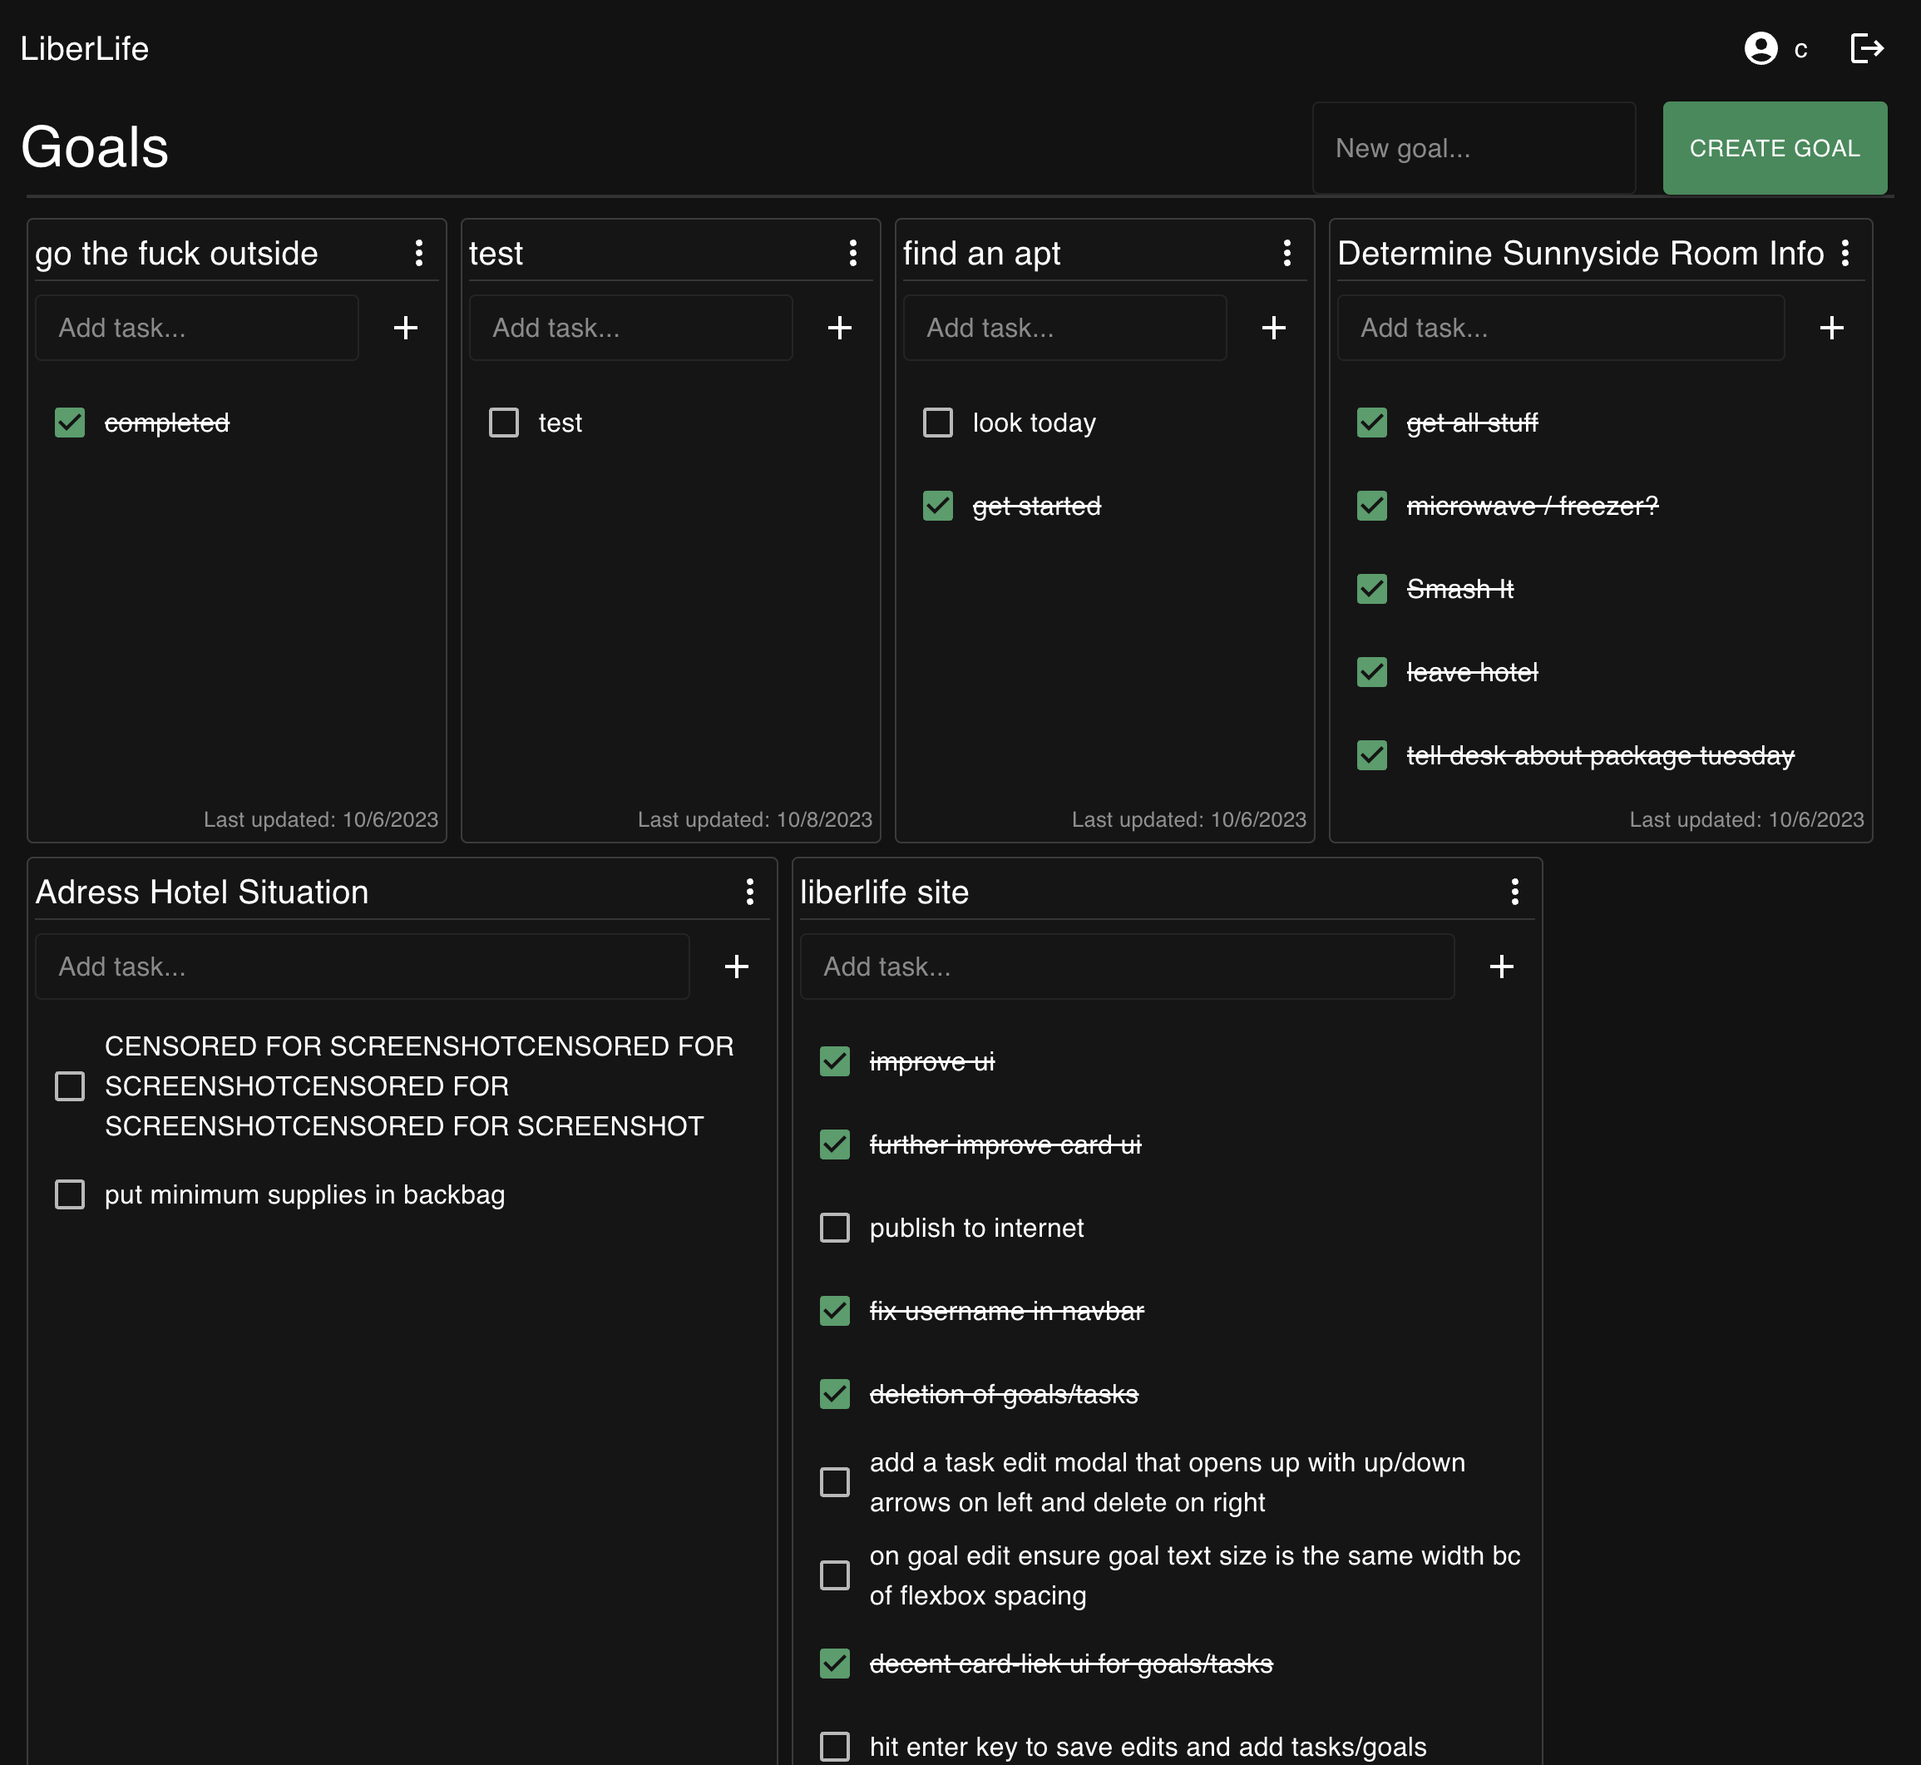
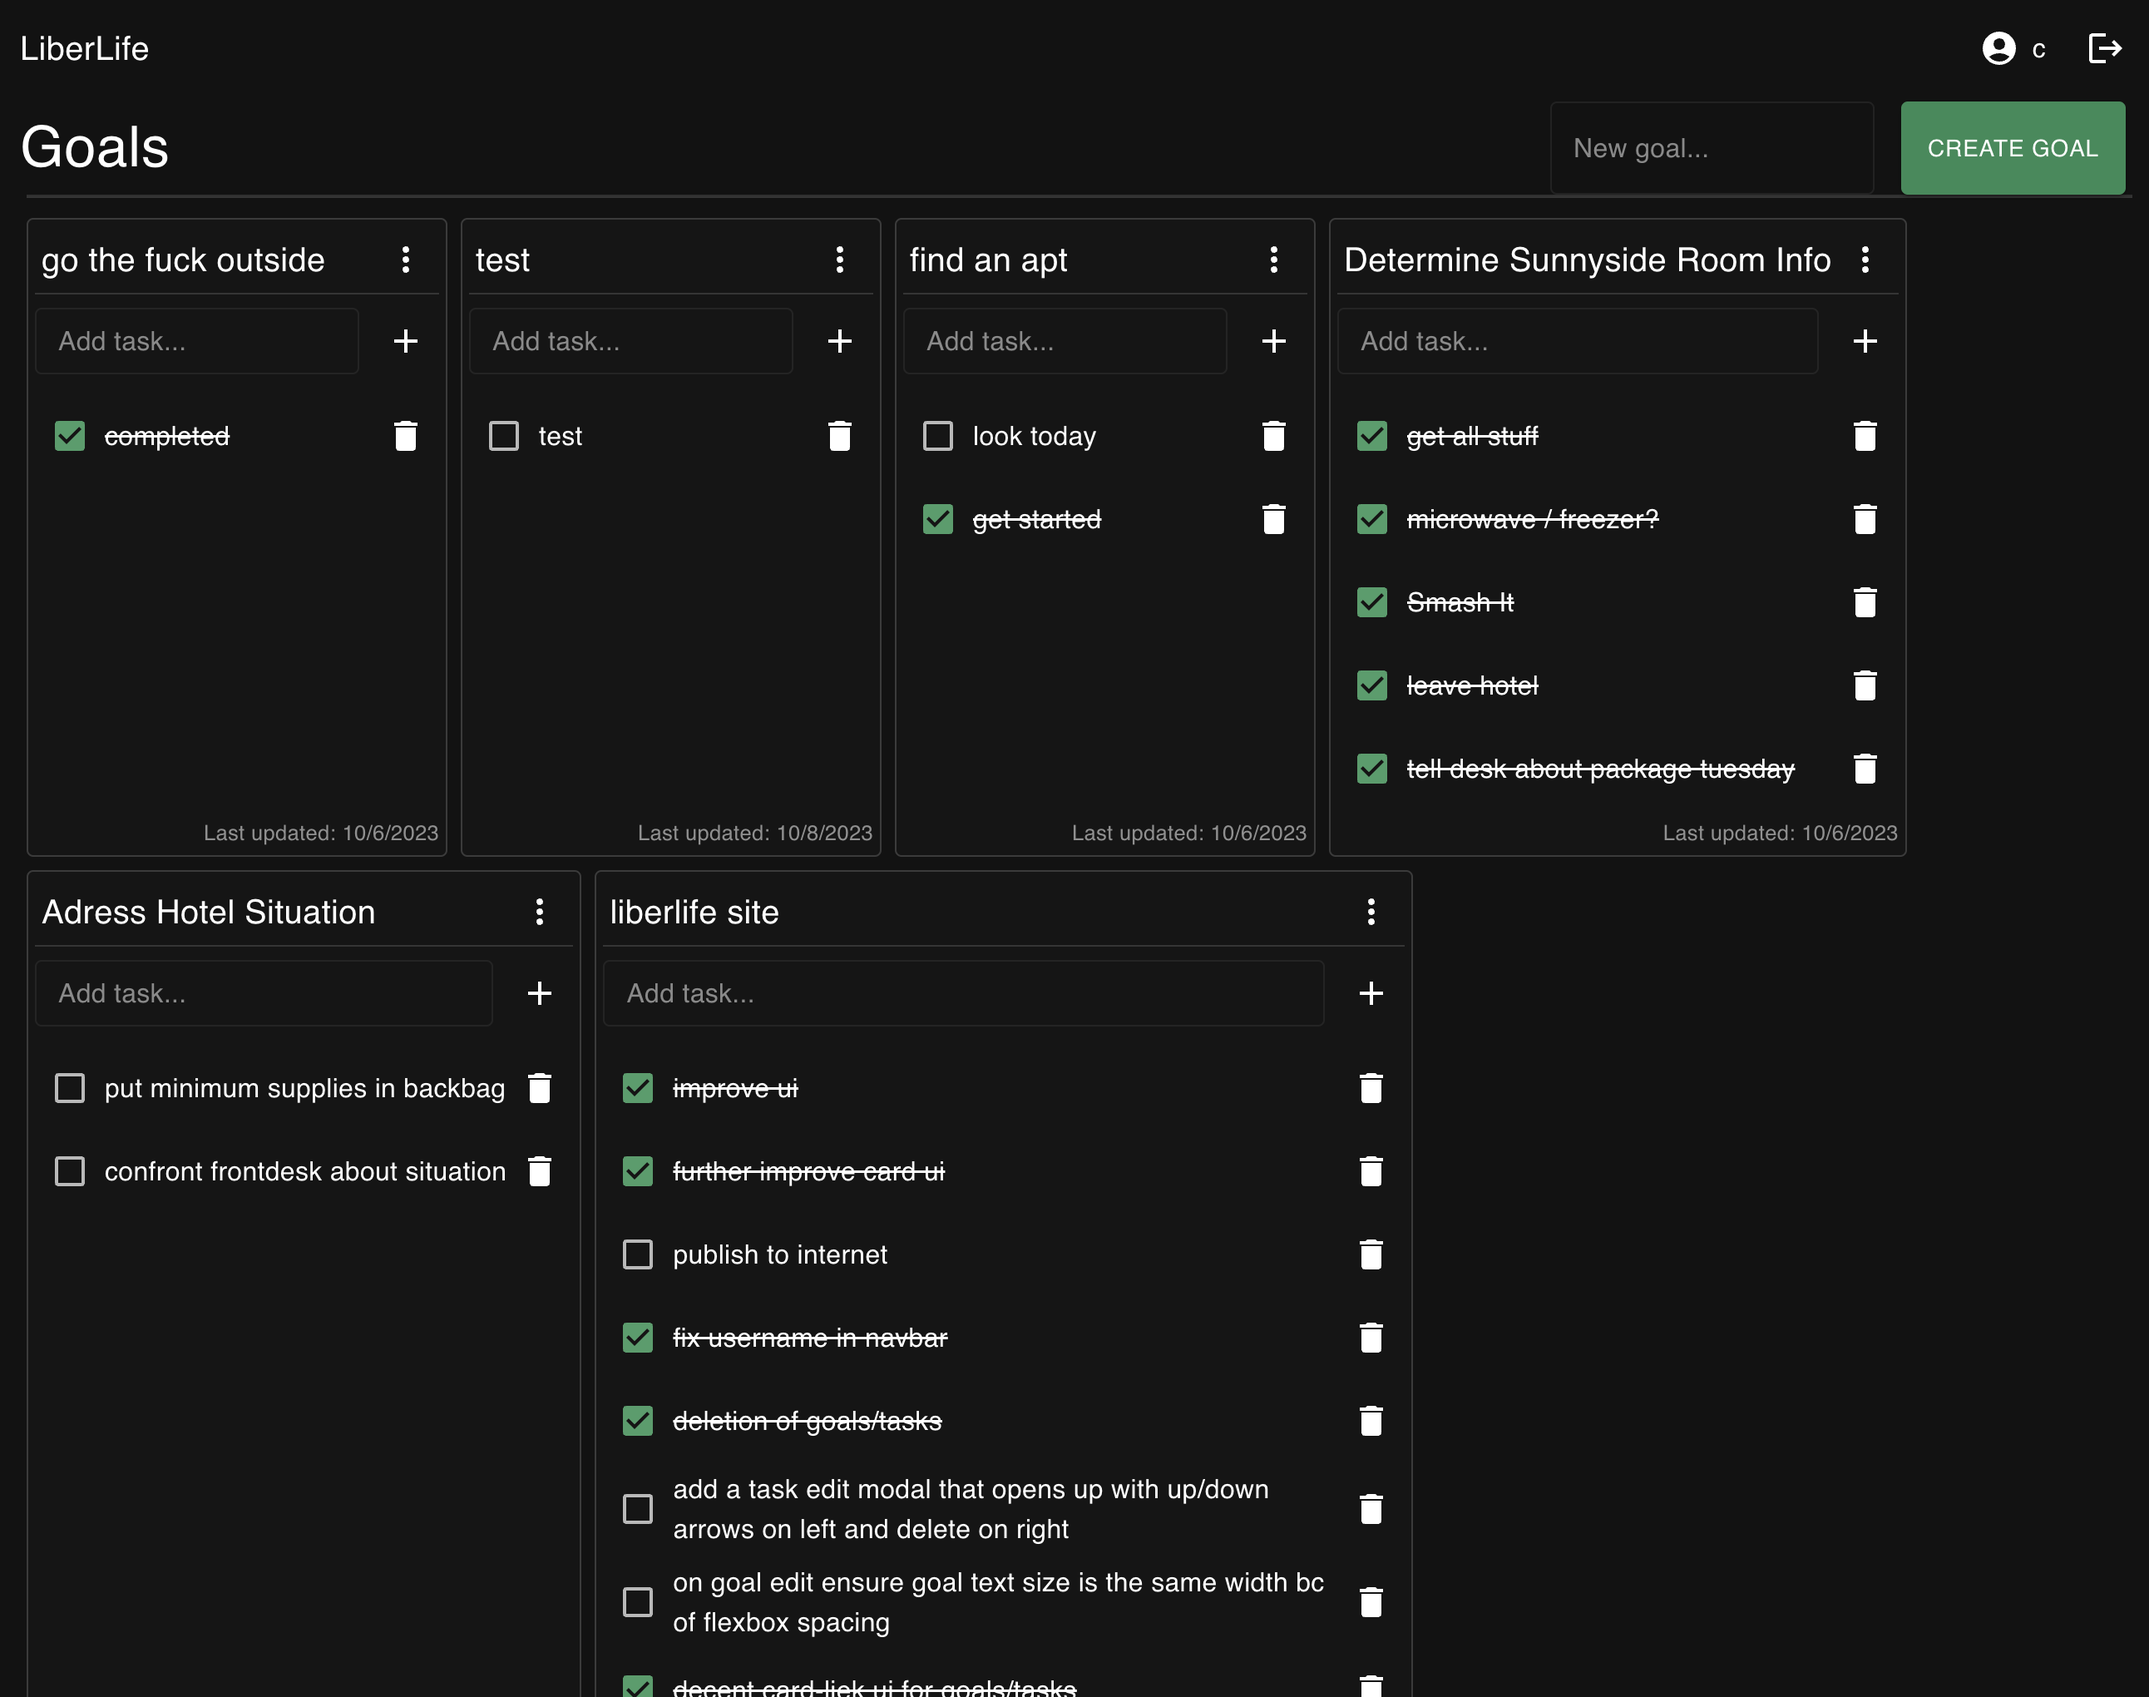
delete functionality for tasks and last updated and preview

diff --git a/frontend/src/pages/GoalsPage/GoalTasks.tsx b/frontend/src/pages/GoalsPage/GoalTasks.tsx
@@ -1,4 +1,4 @@
-import React from "react";
+import React, { useState } from "react";
 import {
   Box,
   TextField,
@@ -7,12 +7,14 @@ import {
   Typography,
 } from "@mui/material";
 import AddIcon from "@mui/icons-material/Add";
+import DeleteIcon from "@mui/icons-material/Delete"; // <-- Import the DeleteIcon
 import { GoalTaskOut } from "../../api";
 
 interface GoalTasksProps {
   newTaskText: string;
   setNewTaskText: (text: string) => void;
   handleAddTask: () => void;
+  onTaskDelete: (goalId: number, taskId: number) => void; // <-- Modify the type for clarity
   tasks: GoalTaskOut[];
   goalId: number;
   onToggle: (goalId: number, taskId: number, isCompleted: boolean) => void;
@@ -26,6 +28,7 @@ export const GoalTasks: React.FC<GoalTasksProps> = ({
   tasks,
   goalId,
   onToggle,
+  onTaskDelete,
   maxElementWidth,
 }) => {
   return (
@@ -49,6 +52,11 @@ export const GoalTasks: React.FC<GoalTasksProps> = ({
           onChange={(e) => setNewTaskText(e.target.value)}
           placeholder="Add task..."
           sx={{ flexGrow: 1, marginRight: 1 }}
+          onKeyDown={(e) => {
+            if (e.key === "Enter") {
+              handleAddTask();
+            }
+          }}
         />
         <IconButton onClick={handleAddTask}>
           <AddIcon />
@@ -59,9 +67,15 @@ export const GoalTasks: React.FC<GoalTasksProps> = ({
           <Box
             display="flex"
             alignItems="center"
-            onClick={() => onToggle(goalId, task.id, task.completed)}
-            sx={{ cursor: "pointer", mb: 1 }}
+            sx={{
+              cursor: "pointer",
+              mb: 1,
+              "&:hover": {
+                backgroundColor: "#303030",
+              },
+            }}
             key={task.id}
+            onClick={() => onToggle(goalId, task.id, task.completed)}
           >
             <Checkbox checked={task.completed} />
             <Box
@@ -75,6 +89,14 @@ export const GoalTasks: React.FC<GoalTasksProps> = ({
             >
               <Typography>{task.text}</Typography>
             </Box>
+            <IconButton
+              onClick={(event) => {
+                event.stopPropagation(); // Prevent triggering the onToggle when deleting
+                onTaskDelete(goalId, task.id);
+              }}
+            >
+              <DeleteIcon />
+            </IconButton>
           </Box>
         ))}
       </Box>

diff --git a/frontend/src/pages/GoalsPage/index.tsx b/frontend/src/pages/GoalsPage/index.tsx
@@ -156,6 +156,44 @@ const GoalsPage: React.FC = () => {
     return false;
   };
 
+  const handleDeleteTask = async (goalId: number, taskId: number) => {
+    if (!auth || !auth?.userLoading && !auth?.user) {
+      navigate("/login");
+      return;
+    }
+    try {
+      // Call the DELETE endpoint for the task.
+      // I'm assuming the endpoint URL structure based on your provided routes for goals. Modify if it's different.
+      const response = await apios.delete(`/goals/${goalId}/tasks/${taskId}`);
+
+      if (response.status === 200 || response.status === 204) {
+        // If successful, update the goals state to remove the task.
+        setGoals((prevGoals) =>
+          prevGoals.map((goal) => {
+            if (goal.id === goalId) {
+              return {
+                ...goal,
+                tasks: goal.tasks?.filter((task) => task.id !== taskId) || [],
+              };
+            }
+            return goal;
+          })
+        );
+      } else {
+        console.error("Error deleting task:", response.data);
+      }
+    } catch (error: any) {
+      const axiosError = error;
+      if (axiosError.response && axiosError.response.status === 401) {
+        auth.logout();
+        navigate("/login");
+      } else {
+        console.error("Error deleting task:", error.message);
+      }
+    }
+  };
+
+
 
   return (
     <Container
@@ -173,6 +211,7 @@ const GoalsPage: React.FC = () => {
         handleGoalDelete={handleGoalDelete}
         handleAddTaskToGoal={handleAddTaskToGoal}
         handleGoalUpdate={handleGoalUpdate}
+        handleDeleteTask={handleDeleteTask}
       />
       </Container>
 

diff --git a/frontend/src/pages/GoalsPage/GoalItem.tsx b/frontend/src/pages/GoalsPage/GoalItem.tsx
@@ -1,9 +1,7 @@
 import React, { useState } from "react";
 import {
   Box,
-  IconButton,
-  Menu,
-  MenuItem,
+
   Divider,
 } from "@mui/material";
 import { GoalOut } from "../../api";
@@ -16,6 +14,7 @@ interface GoalItemProps {
   onGoalDelete: Function;
   onTaskAdd: Function;
   onGoalUpdate: Function;
+  onTaskDelete: (goalId: number, taskId: number) => void;
 }
 
 export const GoalItem: React.FC<GoalItemProps> = ({
@@ -23,6 +22,7 @@ export const GoalItem: React.FC<GoalItemProps> = ({
   onTaskToggle,
   onGoalDelete,
   onTaskAdd,
+  onTaskDelete,
   onGoalUpdate,
 }) => {
   const [newTaskText, setNewTaskText] = useState<string>("");
@@ -101,6 +101,8 @@ export const GoalItem: React.FC<GoalItemProps> = ({
         goalId={goal.id}
         onToggle={onTaskToggle}
         maxElementWidth={maxElementWidth}
+        onTaskDelete={onTaskDelete}
+
       />
       <Box sx={{ display: "flex", justifyContent: "flex-end",
     }}>

diff --git a/frontend/src/pages/GoalsPage/GoalBoard.tsx b/frontend/src/pages/GoalsPage/GoalBoard.tsx
@@ -16,6 +16,7 @@ interface GoalBoardProps {
   handleGoalDelete: (goalId: number) => void;
   handleAddTaskToGoal: (goalId: number, taskText: string) => void;
   handleGoalUpdate: (goalId: number, updatedText: string) => Promise<boolean>;
+  handleDeleteTask: (goalId: number, taskId: number) => void;
 }
 
 const GoalBoard: React.FC<GoalBoardProps> = ({
@@ -27,7 +28,9 @@ const GoalBoard: React.FC<GoalBoardProps> = ({
   handleGoalDelete,
   handleAddTaskToGoal,
   handleGoalUpdate,
+  handleDeleteTask,
 }) => {
+
   return (
     <Box>
       <Box
@@ -97,6 +100,7 @@ const GoalBoard: React.FC<GoalBoardProps> = ({
             onGoalDelete={handleGoalDelete}
             onTaskAdd={handleAddTaskToGoal}
             onGoalUpdate={handleGoalUpdate}
+            onTaskDelete={handleDeleteTask}
           />
         ))}
       </Box>

diff --git a/frontend/src/pages/GoalsPage/GoalTaskItem.tsx b/frontend/src/pages/GoalsPage/GoalTaskItem.tsx
@@ -1,7 +1,9 @@
 import React from "react";
-import { Box, Checkbox, Typography } from "@mui/material";
+import { Box, Checkbox, Typography, IconButton } from "@mui/material";
 import { GoalTaskOut } from "../../api";
 import { primaryColor, secondaryColor } from "../../App";
+import DeleteIcon from "@mui/icons-material/Delete";
+
 
 export const GoalTaskItem: React.FC<{
   task: GoalTaskOut;
@@ -36,6 +38,14 @@ export const GoalTaskItem: React.FC<{
       >
         <Typography>{task.text}</Typography>
       </Box>
+      <IconButton
+        onClick={(e) => {
+          e.stopPropagation(); // This prevents the parent onClick from being called
+
+        }}
+      >
+        <DeleteIcon />
+      </IconButton>
     </Box>
   );
 };

diff --git a/frontend/src/pages/GoalsPage/GoalHeader.tsx b/frontend/src/pages/GoalsPage/GoalHeader.tsx
@@ -49,7 +49,7 @@ export const GoalHeader: React.FC<GoalHeaderProps> = ({
         flexDirection: "row",
         justifyContent: "space-between",
         alignItems: "center",
-
+        ml: 0.5,
       }}
     >
               <Box
@@ -84,7 +84,7 @@ export const GoalHeader: React.FC<GoalHeaderProps> = ({
   {goal.text}
 </Typography>
 
-          <IconButton onClick={handleMenuClick} sx={{m: 0, p: 0}}>
+          <IconButton onClick={handleMenuClick}>
             <MoreVertIcon />
           </IconButton>
           <Menu
